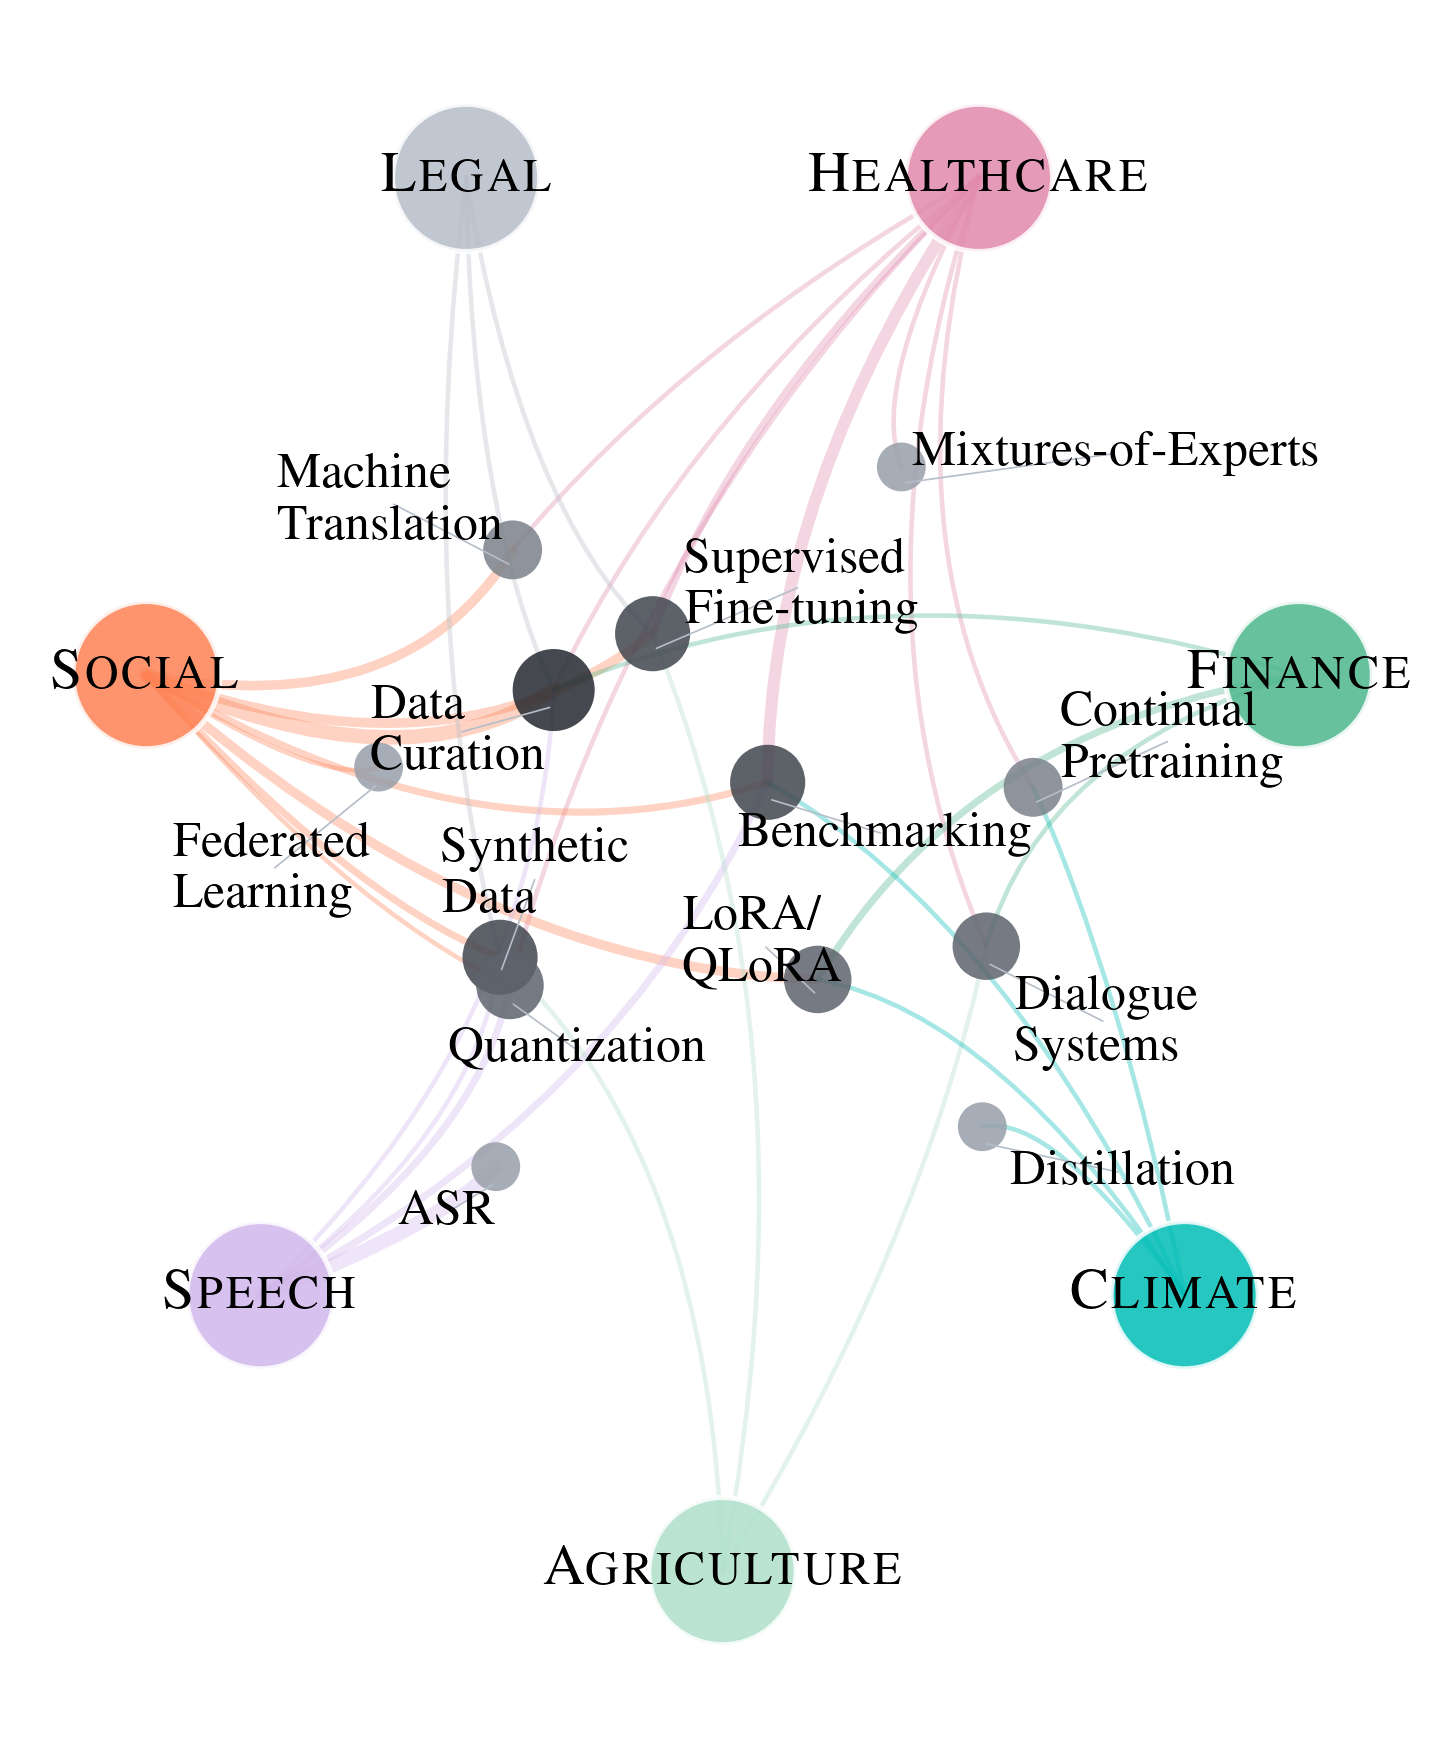
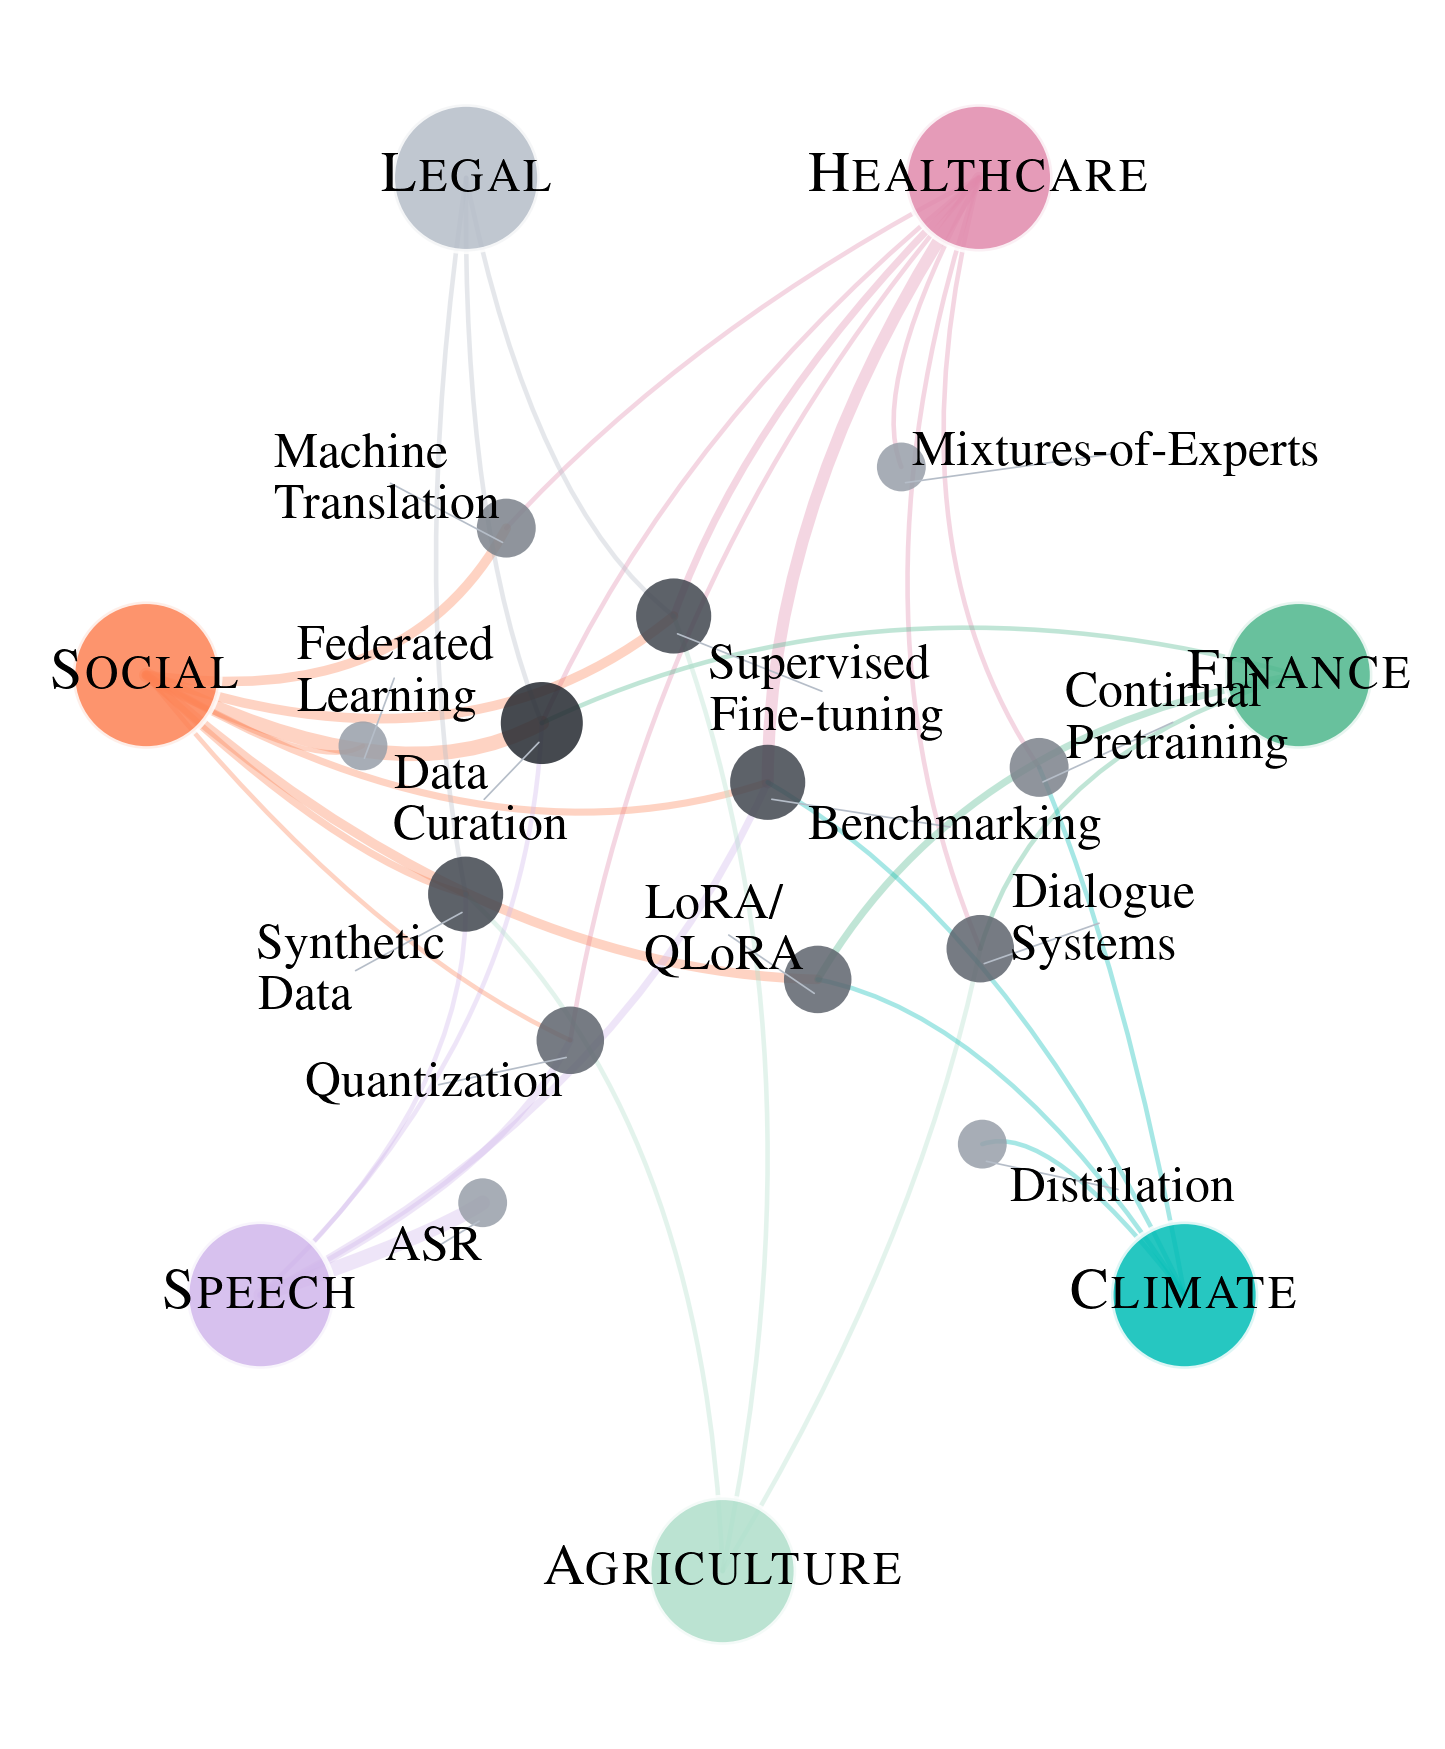
[wip] Update

Changed region(s): [[0.1246, 0.1235, 0.9031, 0.741], [0.4983, 0.7101, 0.5294, 0.8027], [0.436, 0.2161, 0.4671, 0.247]]

diff --git a/analysis/deployment_domains.py b/analysis/deployment_domains.py
@@ -200,9 +200,21 @@ def plot_domain_technique_network(
         x, y = full_pos[t]
         full_pos[t] = (x - cx_off, y - cy_off)
 
+    # Clamp first, then separate — so separation isn't undone by clamping
+    max_degree = max(G.nodes[t].get("degree", 1) for t in technique_nodes)
+    for t in technique_nodes:
+        x, y = full_pos[t]
+        degree = G.nodes[t].get("degree", 1)
+        frac = degree / max_degree
+        max_dist = radius * (0.65 - 0.30 * frac)
+        dist = np.sqrt(x**2 + y**2)
+        if dist > max_dist:
+            scale = max_dist / dist
+            full_pos[t] = (x * scale, y * scale)
+
     # Push apart overlapping technique nodes
-    min_separation = 0.6
-    for _ in range(50):
+    min_separation = 1.2
+    for _ in range(200):
         moved = False
         for i, t1 in enumerate(technique_nodes):
             for t2 in technique_nodes[i + 1 :]:
@@ -220,18 +232,6 @@ def plot_domain_technique_network(
                     moved = True
         if not moved:
             break
-
-    # Clamp: high-degree nodes closer to center
-    max_degree = max(G.nodes[t].get("degree", 1) for t in technique_nodes)
-    for t in technique_nodes:
-        x, y = full_pos[t]
-        degree = G.nodes[t].get("degree", 1)
-        frac = degree / max_degree
-        max_dist = radius * (0.65 - 0.30 * frac)
-        dist = np.sqrt(x**2 + y**2)
-        if dist > max_dist:
-            scale = max_dist / dist
-            full_pos[t] = (x * scale, y * scale)
 
     pos.update({t: full_pos[t] for t in technique_nodes})
 
